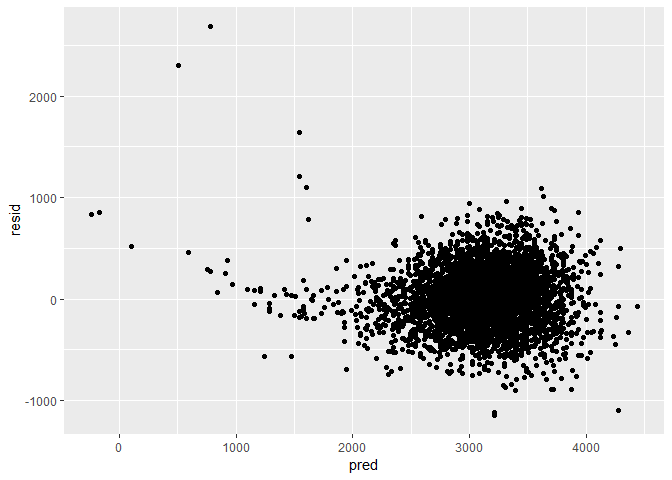
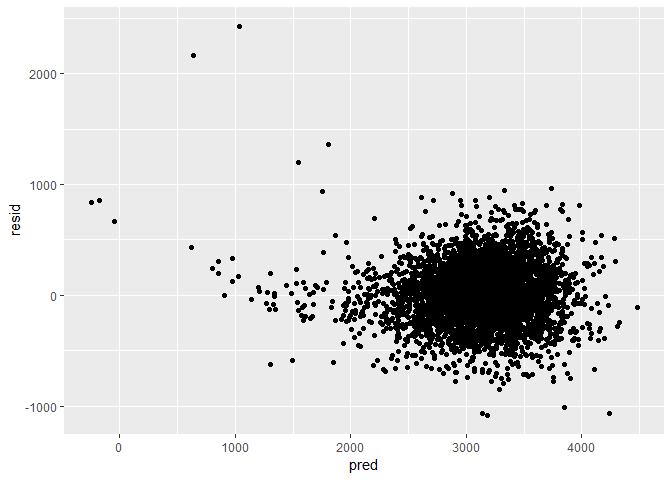
compared models and added description

diff --git a/hw6_linearmodels.md b/hw6_linearmodels.md
@@ -13174,18 +13174,150 @@ birthweight_df
     ## 4342  0.000     17
 
 ``` r
+library(leaps)
+
 # propose regression model
-first_linear_model = lm(bwt ~ babysex + bhead + blength + malform + smoken, 
-                        data = birthweight_df)
+full_model = lm(bwt ~ ., data = birthweight_df)
+step_model = step(full_model, direction = "both")
 ```
 
-Describe model building process
+    ## Start:  AIC=48810.15
+    ## bwt ~ babysex + bhead + blength + delwt + fincome + frace + gaweeks + 
+    ##     malform + menarche + mheight + momage + mrace + parity + 
+    ##     pnumlbw + pnumsga + ppbmi + ppwt + smoken + wtgain
+    ## 
+    ## 
+    ## Step:  AIC=48810.15
+    ## bwt ~ babysex + bhead + blength + delwt + fincome + frace + gaweeks + 
+    ##     malform + menarche + mheight + momage + mrace + parity + 
+    ##     pnumlbw + pnumsga + ppbmi + ppwt + smoken
+    ## 
+    ## 
+    ## Step:  AIC=48810.15
+    ## bwt ~ babysex + bhead + blength + delwt + fincome + frace + gaweeks + 
+    ##     malform + menarche + mheight + momage + mrace + parity + 
+    ##     pnumlbw + ppbmi + ppwt + smoken
+    ## 
+    ## 
+    ## Step:  AIC=48810.15
+    ## bwt ~ babysex + bhead + blength + delwt + fincome + frace + gaweeks + 
+    ##     malform + menarche + mheight + momage + mrace + parity + 
+    ##     ppbmi + ppwt + smoken
+    ## 
+    ##            Df Sum of Sq       RSS   AIC
+    ## - ppbmi     1       315 328372167 48808
+    ## - malform   1      3018 328374870 48808
+    ## - mheight   1     15827 328387679 48808
+    ## - frace     1     33781 328405633 48809
+    ## - ppwt      1     77194 328449045 48809
+    ## <none>                  328371852 48810
+    ## - menarche  1    161362 328533213 48810
+    ## - parity    1    366128 328737979 48813
+    ## - momage    1    632160 329004012 48816
+    ## - fincome   1   1030574 329402426 48822
+    ## - babysex   1   1086475 329458327 48822
+    ## - mrace     1   1778556 330150407 48832
+    ## - smoken    1   3106197 331478048 48849
+    ## - gaweeks   1   5017414 333389265 48874
+    ## - delwt     1   7473440 335845292 48906
+    ## - blength   1 106590743 434962595 50029
+    ## - bhead     1 113902511 442274363 50101
+    ## 
+    ## Step:  AIC=48808.15
+    ## bwt ~ babysex + bhead + blength + delwt + fincome + frace + gaweeks + 
+    ##     malform + menarche + mheight + momage + mrace + parity + 
+    ##     ppwt + smoken
+    ## 
+    ##            Df Sum of Sq       RSS   AIC
+    ## - malform   1      3033 328375200 48806
+    ## - frace     1     33825 328405992 48807
+    ## <none>                  328372167 48808
+    ## - menarche  1    161091 328533258 48808
+    ## + ppbmi     1       315 328371852 48810
+    ## - parity    1    366498 328738665 48811
+    ## - momage    1    632022 329004189 48815
+    ## - mheight   1    675684 329047851 48815
+    ## - fincome   1   1030291 329402457 48820
+    ## - babysex   1   1086908 329459074 48820
+    ## - mrace     1   1778610 330150776 48830
+    ## - smoken    1   3105969 331478135 48847
+    ## - ppwt      1   3179601 331551767 48848
+    ## - gaweeks   1   5018627 333390793 48872
+    ## - delwt     1   7474996 335847163 48904
+    ## - blength   1 106590460 434962626 50027
+    ## - bhead     1 113972011 442344178 50100
+    ## 
+    ## Step:  AIC=48806.19
+    ## bwt ~ babysex + bhead + blength + delwt + fincome + frace + gaweeks + 
+    ##     menarche + mheight + momage + mrace + parity + ppwt + smoken
+    ## 
+    ##            Df Sum of Sq       RSS   AIC
+    ## - frace     1     33987 328409187 48805
+    ## <none>                  328375200 48806
+    ## - menarche  1    161625 328536825 48806
+    ## + malform   1      3033 328372167 48808
+    ## + ppbmi     1       330 328374870 48808
+    ## - parity    1    366217 328741417 48809
+    ## - momage    1    634318 329009517 48813
+    ## - mheight   1    674643 329049842 48813
+    ## - fincome   1   1028426 329403626 48818
+    ## - babysex   1   1085480 329460680 48819
+    ## - mrace     1   1780124 330155324 48828
+    ## - smoken    1   3103025 331478225 48845
+    ## - ppwt      1   3188216 331563416 48846
+    ## - gaweeks   1   5016626 333391826 48870
+    ## - delwt     1   7493191 335868391 48902
+    ## - blength   1 106598488 434973688 50025
+    ## - bhead     1 113989429 442364629 50098
+    ## 
+    ## Step:  AIC=48804.64
+    ## bwt ~ babysex + bhead + blength + delwt + fincome + gaweeks + 
+    ##     menarche + mheight + momage + mrace + parity + ppwt + smoken
+    ## 
+    ##            Df Sum of Sq       RSS   AIC
+    ## <none>                  328409187 48805
+    ## - menarche  1    165498 328574685 48805
+    ## + frace     1     33987 328375200 48806
+    ## + malform   1      3194 328405992 48807
+    ## + ppbmi     1       376 328408811 48807
+    ## - parity    1    366935 328776121 48807
+    ## - momage    1    637125 329046311 48811
+    ## - mheight   1    683740 329092927 48812
+    ## - fincome   1   1050875 329460062 48817
+    ## - babysex   1   1085276 329494463 48817
+    ## - smoken    1   3092717 331501903 48843
+    ## - ppwt      1   3192334 331601520 48845
+    ## - gaweeks   1   5019197 333428383 48868
+    ## - mrace     1   5999337 334408523 48881
+    ## - delwt     1   7480901 335890088 48900
+    ## - blength   1 106612808 435021995 50023
+    ## - bhead     1 114005059 442414245 50096
+
+``` r
+step_model
+```
+
+    ## 
+    ## Call:
+    ## lm(formula = bwt ~ babysex + bhead + blength + delwt + fincome + 
+    ##     gaweeks + menarche + mheight + momage + mrace + parity + 
+    ##     ppwt + smoken, data = birthweight_df)
+    ## 
+    ## Coefficients:
+    ## (Intercept)      babysex        bhead      blength        delwt  
+    ##  -6246.3672      32.3171     134.4298      76.3760       3.9564  
+    ##     fincome      gaweeks     menarche      mheight       momage  
+    ##      0.6597      12.0396      -4.3140       5.4408       3.4549  
+    ##       mrace       parity         ppwt       smoken  
+    ##    -53.4990      89.9677      -2.8323      -3.7116
+
+To select a model, a stepwise regression was performed. This stepwise selection process, which is a combination of forward and backward selections, returns a model that lowers the prediction error. The model reduced the full model containing 19 predictors, to a model containing 13 predictors.
 
 ``` r
 # plot residuals for fitted values
 birthweight_df %>% 
-  add_predictions(first_linear_model) %>% 
-  add_residuals(first_linear_model) %>% 
+  add_predictions(step_model) %>% 
+  add_residuals(step_model) %>% 
   ggplot(aes(x = pred, y = resid)) + geom_point()
 ```
 
@@ -13207,13 +13339,14 @@ cv_df =
   crossv_mc(birthweight_df, 100) %>% 
   mutate(train = map(train, as_tibble),
          test = map(test, as_tibble)) %>% 
-  mutate(first_model = map(train, ~lm(bwt ~ babysex + bhead + blength + malform +  
-                                      smoken, data = .x)),
+  mutate(step_model = map(train, ~lm(bwt ~ babysex + bhead + blength + delwt + fincome
+                                     + gaweeks + menarche + mheight + momage + mrace +
+                                     parity + ppwt + smoken, data = .x)),
          second_model = map(train, ~lm(bwt ~ blength + gaweeks, data = .x)),
          third_model = map(train, ~lm(bwt ~ bhead + blength + babysex + bhead * 
                                       blength + bhead * babysex + blength * babysex + 
                                       bhead * blength * babysex, data = .x))) %>% 
-  mutate(rmse_first = map2_dbl(first_model, test, ~rmse(model = .x, data = .y)),
+  mutate(rmse_first = map2_dbl(step_model, test, ~rmse(model = .x, data = .y)),
          rmse_second = map2_dbl(second_model, test, ~rmse(model = .x, data = .y)),
          rmse_third = map2_dbl(third_model, test, ~rmse(model = .x, data = .y)))
 ```
